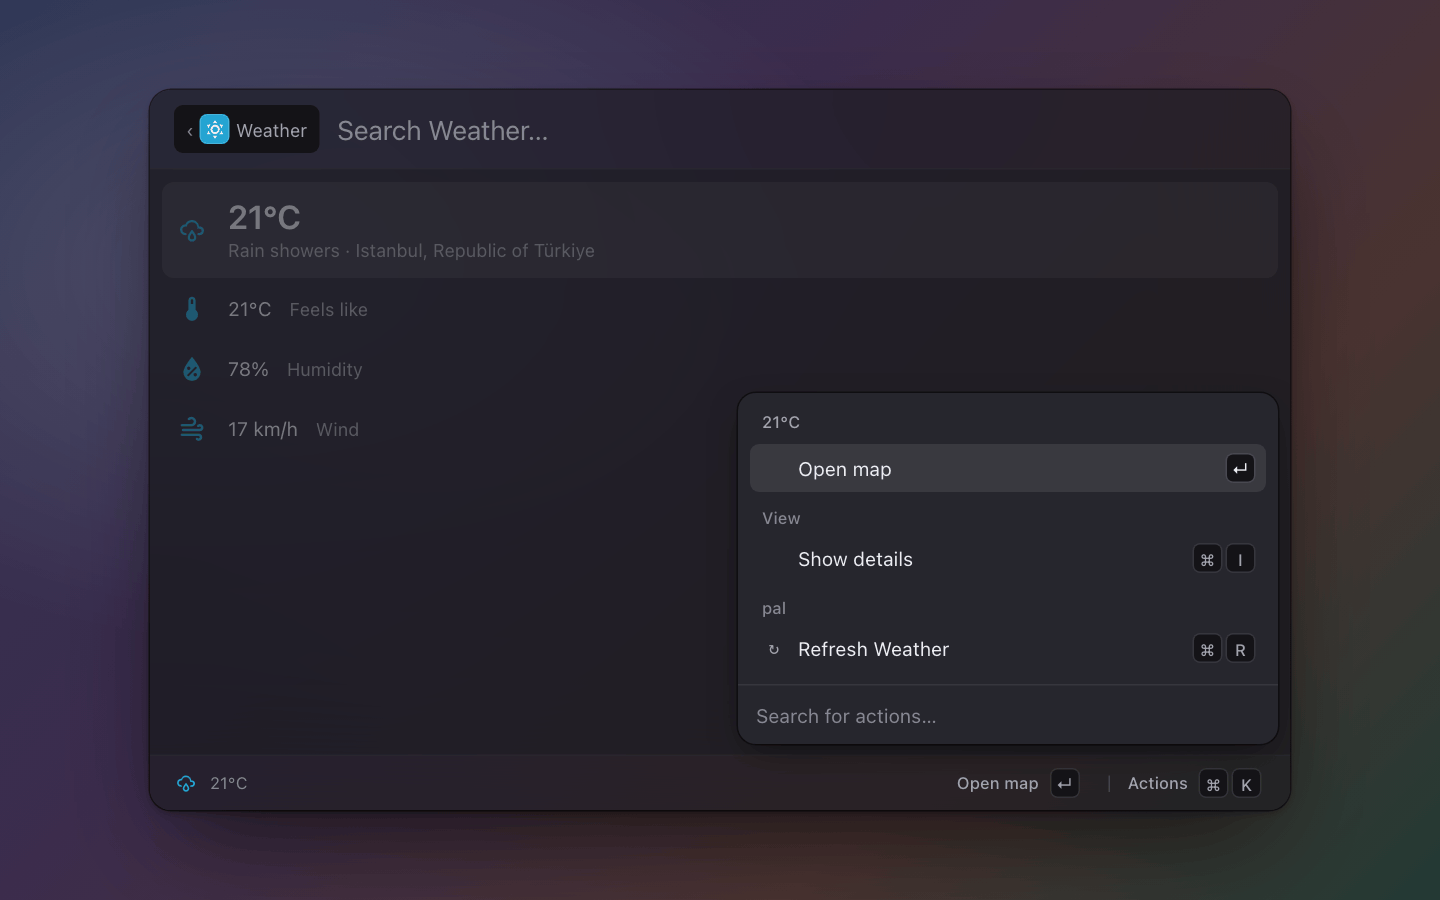
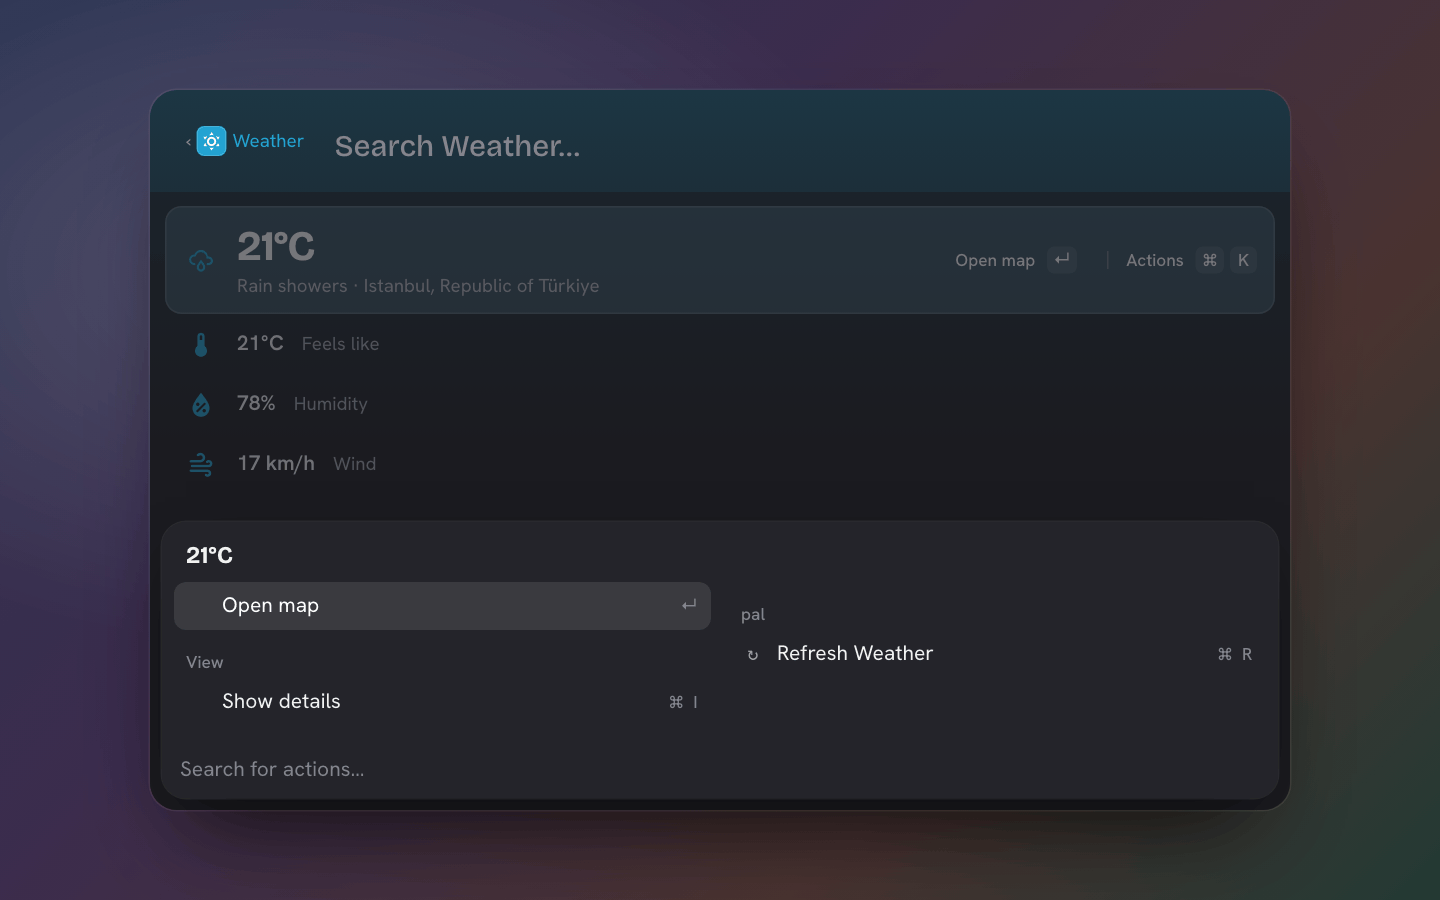
weather: the popover leads with the temperature as a headline (the condition under it), its sections a step closer so the sun line fits

diff --git a/extensions/weather/view.ts b/extensions/weather/view.ts
@@ -1,4 +1,4 @@
-// The bar popover as a pure `View`: current conditions at the top,
+// The bar popover as a pure `View`: the temperature now as the headline,
 // then the forecast Open-Meteo returns in the same request. The hourly
 // strip starts at `current.time` by matching it against `hourly.time`,
 // not by assuming midnight plus the user's local hour. Forecast fields
@@ -156,12 +156,12 @@ export function render(r: Reading): View {
     keys: "actions",
     actions: actions(),
     tree: column([
-      row([text(glyph, { key: "glyph", style: "glyph", size: "xl" }), column([text(`${fmt(r.current.temperature_2m)}${r.unit}`, { key: "temp", style: "number", size: "xl" }), text(condition, { key: "condition", style: "muted", size: "sm" })], { key: "reading", gap: 0, grow: true })], { key: "now", gap: 3 }),
+      row([text(glyph, { key: "glyph", style: "glyph", size: "xl" }), column([text(`${fmt(r.current.temperature_2m)}${r.unit}`, { key: "temp", style: "headline" }), text(condition, { key: "condition", style: "muted", size: "sm" })], { key: "reading", gap: 0, grow: true })], { key: "now", gap: 3, align: "center" }),
       ...stats(r),
       ...hourly(r),
       ...daily(r),
       ...sun(r),
       hints(),
-    ], { key: "weather", padding: 3, gap: 3 }),
+    ], { key: "weather", padding: 3, gap: 2 }),
   };
 }
